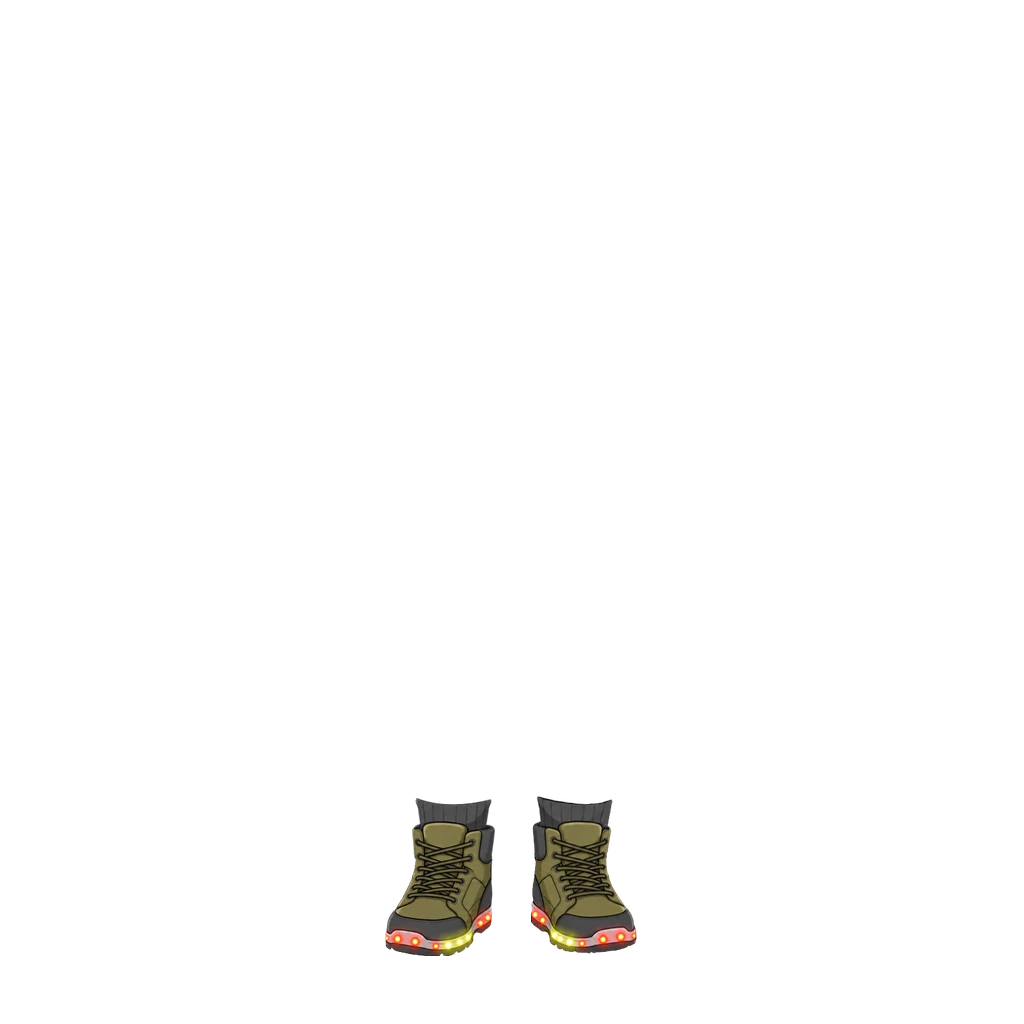
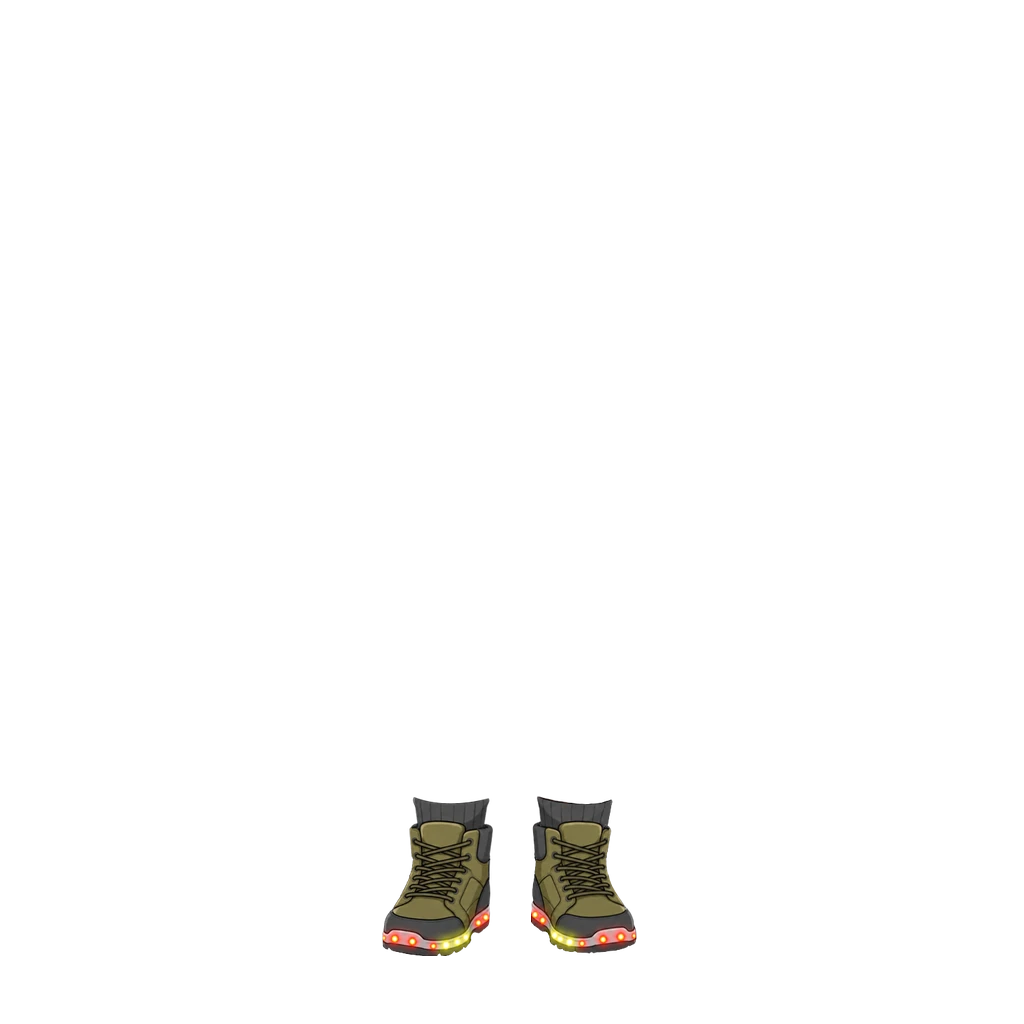
정글 부츠: 화면 왼쪽 짝만 1% 크게·왼쪽으로 2 (#831)
Claude-Session: https://claude.ai/code/session_018maNuYqDfFyRSe9uKpZhPR

Changed region(s): [[0.375, 0.7812, 0.5, 0.9375]]

diff --git a/src/data/avatarEquipment.js b/src/data/avatarEquipment.js
@@ -391,8 +391,9 @@ export const AVATAR_CATALOG = [
   /* 정글 부츠 [2026-10-03] — 남아. 카키 하이탑 + 회색 양말, 불 들어오는 밑창 두 짝, 사용자 원화 369×235. 정글 탐험대 옷과 짝.
      여아 신발과 같은 방식 — 두 짝을 따로 잘라 원화 양말 가운데(왼짝 x100.5 · 오른짝 x64)를 남아 다리 가운데(x450.5 · x574.5)에,
      배율 0.68, 왼짝 +3. 밑창이 안쪽으로 비스듬히 올라가 그 아래로 발가락이 비쳐서, 밑창 아래끝을 y956(발바닥 y939 보다 17 아래)까지 내려
-     맨발 0px. 탑재 상자 (385,796,637,956). */
-  { id: "shoes_jungle", slot: "shoes", label: "정글 부츠",   emoji: "🥾", price:DECOR_PRICE.common, rarity: "common", theme: "adventure", forGender: "boy", img: "assets/avatar/shoes/jungle-boots-boy.webp", thumb: "assets/avatar/thumb/shoes_jungle.webp" },
+     맨발 0px. 탑재 상자 (385,796,637,956).
+     [2026-10-03] 사용자 조정 — 화면 왼쪽 짝만 1% 크게(0.6868, 밑창·양말 가운데 고정)·왼쪽으로 2(왼짝 +3 → +1). 탑재 상자 (382,795,637,956). img ?v=2. */
+  { id: "shoes_jungle", slot: "shoes", label: "정글 부츠",   emoji: "🥾", price:DECOR_PRICE.common, rarity: "common", theme: "adventure", forGender: "boy", img: "assets/avatar/shoes/jungle-boots-boy.webp?v=2", thumb: "assets/avatar/thumb/shoes_jungle.webp" },
   /* 들꽃 신발 [2026-10-02] — 여아 신발 첫 아이템. 올리브 끈 부츠 두 짝(흰 양말 목, 주황 끈·밑창) 사용자 원화 264×191.
      두 짝을 따로 잘라 각각 다리 위에 얹었다 — 원화 발목 가운데(왼짝 x61 · 오른짝 x51.5)를 여아 다리 가운데(x455 · x556)에,
      밑창 아래끝을 y942(발바닥 y940 바로 아래)에 맞췄다. 배율 0.64 — 발등·발가락이 다 가려지고(맨발 0px) 부츠 목이 종아리 아래(y820)에서 끝난다.

diff --git a/art-src/README.md b/art-src/README.md
@@ -589,4 +589,4 @@ bbox로 여백만 잘라내고 배포본은 높이 480px로 축소했다(전부 
 | thumb-src-shoes_blue.webp | **상점 목록 그림 여아 파랑 운동화 (shoes_blue, 사용자 원화 2026-10-03)** — 입히는 신발이 아니라 상점 카드에만 보이는 그림(한 짝 옆모습). 287×300 투명 배경, 세로 160px 로 줄여 탑재(thumb ?v=2) | avatar/thumb/shoes_blue.webp |
 | thumb-src-shoes_pirate_girl.webp | **상점 목록 그림 여아 꼬마 해적 부츠 (shoes_pirate_girl, 사용자 원화 2026-10-03)** — 입히는 신발이 아니라 상점 카드에만 보이는 그림(한 짝 옆모습). 270×301 투명 배경, 세로 160px 로 줄여 탑재(thumb ?v=2) | avatar/thumb/shoes_pirate_girl.webp |
 | thumb-src-shoes_strawberry.webp | **상점 목록 그림 여아 딸기 구두 (shoes_strawberry, 사용자 원화 2026-10-03)** — 입히는 신발이 아니라 상점 카드에만 보이는 그림(한 짝 옆모습). 268×280 투명 배경, 세로 160px 로 줄여 탑재(thumb ?v=2) | avatar/thumb/shoes_strawberry.webp |
-| jungle-boots-boy-src.webp | **정글 부츠 원화 남아 (사용자 원화 2026-10-03)** — 369×235 투명 배경, 카키 하이탑 + 회색 양말, 불 들어오는 밑창 두 짝. 두 짝(x1~161 · x213~367)을 따로 잘라 배율 0.68, 양말 가운데를 남아 다리 가운데(x450.5·x574.5)에 두고 왼짝 +3, 밑창 아래끝 y956(안쪽으로 올라간 밑창 아래로 발가락이 비치지 않게). 맨발 0px. 탑재 상자 (385,796,637,956). 상점 그림은 원화를 세로 160px 로 | avatar/shoes/jungle-boots-boy.webp · thumb/shoes_jungle.webp |
+| jungle-boots-boy-src.webp | **정글 부츠 원화 남아 (사용자 원화 2026-10-03)** — 369×235 투명 배경, 카키 하이탑 + 회색 양말, 불 들어오는 밑창 두 짝. 두 짝(x1~161 · x213~367)을 따로 잘라 배율 0.68, 양말 가운데를 남아 다리 가운데(x450.5·x574.5)에 두고 왼짝 +3, 밑창 아래끝 y956(안쪽으로 올라간 밑창 아래로 발가락이 비치지 않게). 맨발 0px. 탑재 상자 (385,796,637,956). **[2026-10-03 조정]** 화면 왼쪽 짝만 1% 크게·왼쪽으로 2, 상자 (382,795,637,956) · img ?v=2. 상점 그림은 원화를 세로 160px 로 | avatar/shoes/jungle-boots-boy.webp · thumb/shoes_jungle.webp |
